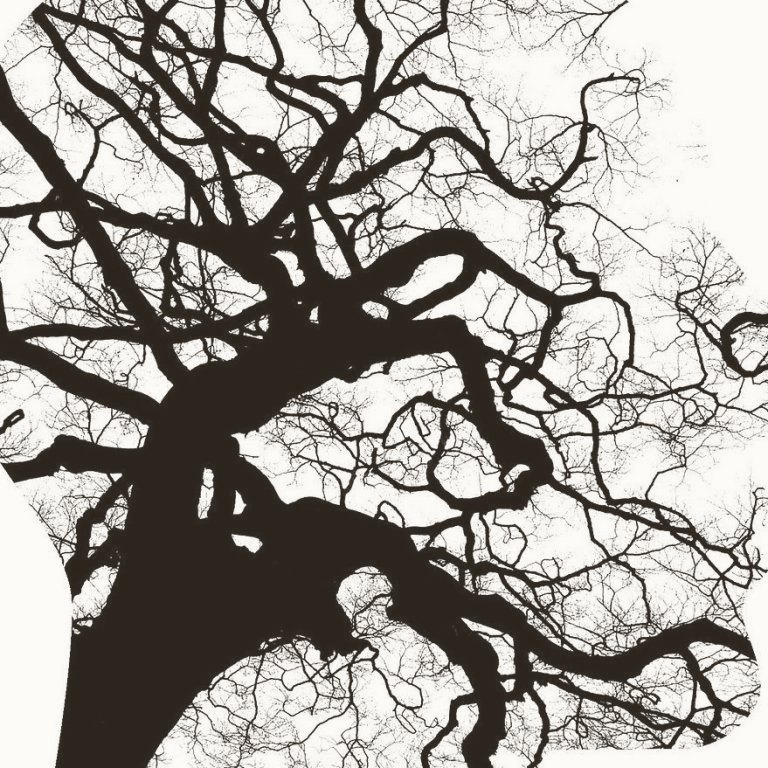
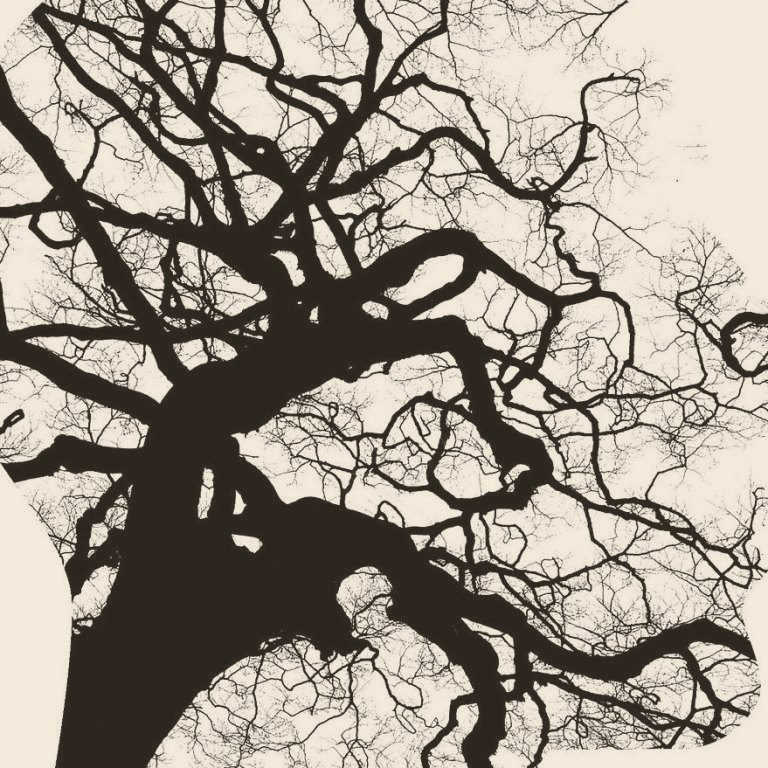
Beige als Grundfarbe statt gebrochenem Weiß
Der bisherige Grundton #fdfbf7 wirkte trotz warmem Stich noch kühl. Die
Seite steht jetzt auf einem echten Beige.

Vier Flächenebenen geben ihr Tiefe, statt nur hell gegen dunkel zu setzen:

  Karten        #fdfaf4  cremig, heller als der Grund
  Grundton      #f4ebdd  die Seite selbst
  Wechselfläche #ebdfcb  jeder zweite Abschnitt
  Dunkel        #3d352c  Fußzeile, Bildband, Schaltflächen

Karten tragen wieder einen leichten Schatten – auf dem beigen Grund hebt
sie das sichtbar ab, auf dem früheren Weiß wäre er verpufft.

Zwei Werte mussten wegen des dunkleren Grundes nachziehen: Der Sandton für
die Akzentlinien war mit 1,4:1 nicht mehr zu erkennen und ist jetzt kräftiger
(#c9a878, 1,9:1); die kleinen Labels sind eine Spur dunkler (5,0:1 statt
4,5:1). Alle Textkontraste bleiben über AA: Fließtext 5,7:1, Überschriften
10,2:1.

Die Schwarzweißbilder sind auf den neuen Grundton nachgetönt – aus den
Originalen neu aufbereitet, nicht die bereits getönten Fassungen nachgefärbt.

Claude-Session: https://claude.ai/code/session_01D21y94KVCccU8S5g8swbGw

diff --git a/assets/css/style.css b/assets/css/style.css
@@ -6,9 +6,9 @@
    Roboto für Überschriften, Nunito Light für den Fließtext, Pill-Buttons,
    kurze Akzentlinie unter jeder Überschrift.
 
-   Die Farbwelt ist dagegen warm gehalten: gebrochenes Weiß und Beige als
-   Flächen, dunkles Warmbraun für Überschriften und Schaltflächen, ein
-   sandfarbener Akzent für Linien und das Wortzeichen.
+   Die Farbwelt ist dagegen warm gehalten: die Grundfarbe der Seite ist ein
+   Beige, kein Weiß. Dazu dunkles Warmbraun für Überschriften und
+   Schaltflächen und ein sandfarbener Akzent für Linien und das Wortzeichen.
    ========================================================================== */
 
 @import url("fonts.css");
@@ -16,25 +16,27 @@
 /* --- 1. Design-Tokens ---------------------------------------------------- */
 
 :root {
-  /* Farben: warm, gedeckt, ruhig.
-     Die Kontraste sind durchgerechnet; die Werte in Klammern gelten
-     gegenüber dem hellen Grund und erfüllen mindestens AA (4,5:1). */
-  --c-bg:            #fdfbf7;   /* gebrochenes Weiß mit warmem Stich */
-  --c-bg-alt:        #f2ece1;   /* Beige für den Wechsel der Abschnitte */
+  /* Farben: warm und gedeckt. Grundton ist ein echtes Beige, kein Weiß.
+     Vier Flächenebenen geben der Seite Tiefe – von der hellen Karte über den
+     Grundton und die etwas sattere Wechselfläche bis zum dunklen Warmbraun.
+     Alle Textkontraste sind durchgerechnet und erfüllen mindestens AA (4,5:1);
+     die Werte in Klammern gelten gegenüber dem Grundton. */
+  --c-bg:            #f4ebdd;   /* Grundton: warmes Beige */
+  --c-bg-alt:        #ebdfcb;   /* etwas satter, für den Wechsel der Abschnitte */
   --c-bg-deep:       #3d352c;   /* dunkles Warmbraun: Fußzeile, Bildband */
-  --c-surface:       #ffffff;
-  --c-border:        #e8ded0;
+  --c-surface:       #fdfaf4;   /* Karten und Eingabefelder, cremiges Hell */
+  --c-border:        #e0d2bb;
 
-  --c-text:          #645b4e;   /* Fließtext (6,5:1) */
-  --c-heading:       #3d352c;   /* Überschriften (11,7:1) */
-  --c-text-muted:    #75695a;   /* kleine Labels (5,2:1) */
+  --c-text:          #645b4e;   /* Fließtext (5,7:1) */
+  --c-heading:       #3d352c;   /* Überschriften (10,2:1) */
+  --c-text-muted:    #6e6253;   /* kleine Labels (5,0:1) */
   --c-text-invert:   #eee6da;
 
   --c-accent:        #3d352c;   /* Schaltflächen */
   --c-accent-dark:   #2b251e;
-  --c-accent-light:  #f5ede0;
-  --c-akzent:        #ddc4a1;   /* Sand: nur für Linien und Flächen, nicht für Text */
-  --c-akzent-dunkel: #8a5535;   /* Terrakotta für Text und Verweise (5,9:1) */
+  --c-accent-light:  #f0e3cd;
+  --c-akzent:        #c9a878;   /* Sand für Linien und Flächen – nie für Text */
+  --c-akzent-dunkel: #8a5535;   /* Terrakotta für Text und Verweise (5,2:1) */
   --c-highlight:     var(--c-akzent-dunkel);
 
   --c-focus:         #8a5535;
@@ -296,7 +298,7 @@ hr {
   position: sticky;
   top: 0;
   z-index: 100;
-  background-color: rgba(253, 251, 247, 0.96);
+  background-color: rgba(244, 235, 221, 0.96);
   backdrop-filter: blur(8px);
   border-bottom: 1px solid var(--c-border);
 }
@@ -741,7 +743,7 @@ hr {
   border: 1px solid var(--c-border);
   border-radius: var(--radius-lg);
   padding: var(--sp-6);
-  box-shadow: none;
+  box-shadow: var(--shadow-sm);
   transition: border-color 0.2s ease;
 }
 

diff --git a/werkzeuge/bilder-toenen.py b/werkzeuge/bilder-toenen.py
@@ -4,7 +4,7 @@ Tönt ein Schwarzweißbild in die warmen Farben der Website ein.
 
 Reines Schwarzweiß wirkt auf dem beigen Grund wie ein aufgesetzter weißer
 Kasten. Dieses Skript bildet die Graustufen stattdessen auf die Palette ab:
-Schwarz wird zum dunklen Warmbraun, Weiß zum gebrochenen Weiß des Seitengrunds.
+Schwarz wird zum dunklen Warmbraun, Weiß zum beigen Seitengrund.
 Das Bild fügt sich dadurch nahtlos ein.
 
 Aufruf im Projektordner:
@@ -28,7 +28,7 @@ except ImportError:
 
 # Die Endpunkte entsprechen --c-accent-dark und --c-bg aus style.css
 DUNKEL = (43, 37, 30)      # #2b251e
-HELL = (253, 251, 247)     # #fdfbf7
+HELL = (244, 235, 221)     # #f4ebdd
 
 
 def toenen(pfad: str) -> None:

diff --git a/README.md b/README.md
@@ -77,12 +77,23 @@ viel Weißraum, eine kurze Akzentlinie unter jeder Überschrift, Schaltflächen
 als Pillen in Versalien. Schriften sind Roboto (Überschriften, kräftig) und
 Nunito Light (Fließtext) – wie bei der Vorlage.
 
-**Die Farbwelt ist dagegen warm**, nicht kühl wie dort: gebrochenes Weiß
-(`#fdfbf7`) und Beige (`#f2ece1`) als Flächen, dunkles Warmbraun (`#3d352c`)
-für Überschriften und Schaltflächen, ein sandfarbener Ton (`#ddc4a1`) für
-Linien und das Wortzeichen sowie Terrakotta (`#8a5535`) für hervorgehobenen
-Text. Die schwarzweißen Bilder halten dagegen und verhindern, dass es zu
-weich wird.
+**Die Farbwelt ist dagegen warm**, nicht kühl wie dort – und die Grundfarbe
+der Seite ist ein **Beige, kein Weiß**. Vier Flächenebenen geben Tiefe:
+
+| Ebene | Farbe | Wo |
+|---|---|---|
+| Karten | `#fdfaf4` | Karten, Eingabefelder – heller als der Grund |
+| Grundton | `#f4ebdd` | die Seite selbst |
+| Wechselfläche | `#ebdfcb` | jeder zweite Abschnitt |
+| Dunkel | `#3d352c` | Fußzeile, Bildband, Schaltflächen |
+
+Dazu Sand (`#c9a878`) für Linien und das Wortzeichen sowie Terrakotta
+(`#8a5535`) für hervorgehobenen Text.
+
+Die Schwarzweißbilder sind in dieselbe Palette getönt – reines Weiß im Bild
+würde auf dem beigen Grund als heller Kasten auffallen. Dafür gibt es
+`werkzeuge/bilder-toenen.py`; die Zielfarben stehen oben im Skript und
+müssen mitgeändert werden, wenn Sie die Palette anpassen.
 
 Die Schriften liegen **lokal** unter `assets/fonts/` und werden nicht von
 Google geladen. Beide Lizenzen erlauben das ausdrücklich (Nunito: SIL Open
@@ -91,7 +102,7 @@ wieder über die Google-Fonts-URL ein – genau das ist in Deutschland bereits
 abgemahnt worden.
 
 Alle Textfarben sind auf Kontrast geprüft und erfüllen mindestens die
-WCAG-Stufe AA: Fließtext 6,5:1, kleine Labels 5,2:1, Überschriften 11,7:1.
+WCAG-Stufe AA: Fließtext 5,7:1, kleine Labels 5,0:1, Überschriften 10,2:1.
 Bei einer Praxis-Website, die auch erschöpfte oder ältere Menschen erreichen
 soll, ist Lesbarkeit wichtiger als die letzte Nuance. Der sandfarbene Akzent
 ist deshalb ausschließlich für Linien und Flächen gedacht, nie für Text.

diff --git a/CLAUDE.md b/CLAUDE.md
@@ -12,9 +12,13 @@ Statisches HTML/CSS mit PHP-Kontaktformular, ausgelegt auf IONOS-Webhosting.
 Aufbau angelehnt an loew-psychotherapie.de: viel Weißraum, Akzentlinie unter
 Überschriften, Roboto und Nunito (lokal eingebunden).
 
-Die Farbwelt ist auf ausdrücklichen Wunsch **warm** gehalten: gebrochenes Weiß
-und Beige, dunkles Warmbraun, sandfarbener Akzent. Alle Farben stehen im Block
-`:root` in `assets/css/style.css`.
+Die Farbwelt ist auf ausdrücklichen Wunsch **warm** gehalten, und die
+Grundfarbe der Seite ist ein **Beige, kein Weiß** (`#f4ebdd`). Dazu dunkles
+Warmbraun und ein sandfarbener Akzent. Alle Farben stehen im Block `:root` in
+`assets/css/style.css`.
+
+Schwarzweißbilder werden mit `werkzeuge/bilder-toenen.py` in dieselbe Palette
+getönt, damit sie auf dem Beige nicht als weiße Kästen auffallen.
 
 Grundregel für dieses Projekt: **keine externen Ressourcen** – keine Schriften,
 Karten, Skripte oder Trackingdienste von fremden Servern. Nur so bleibt die
